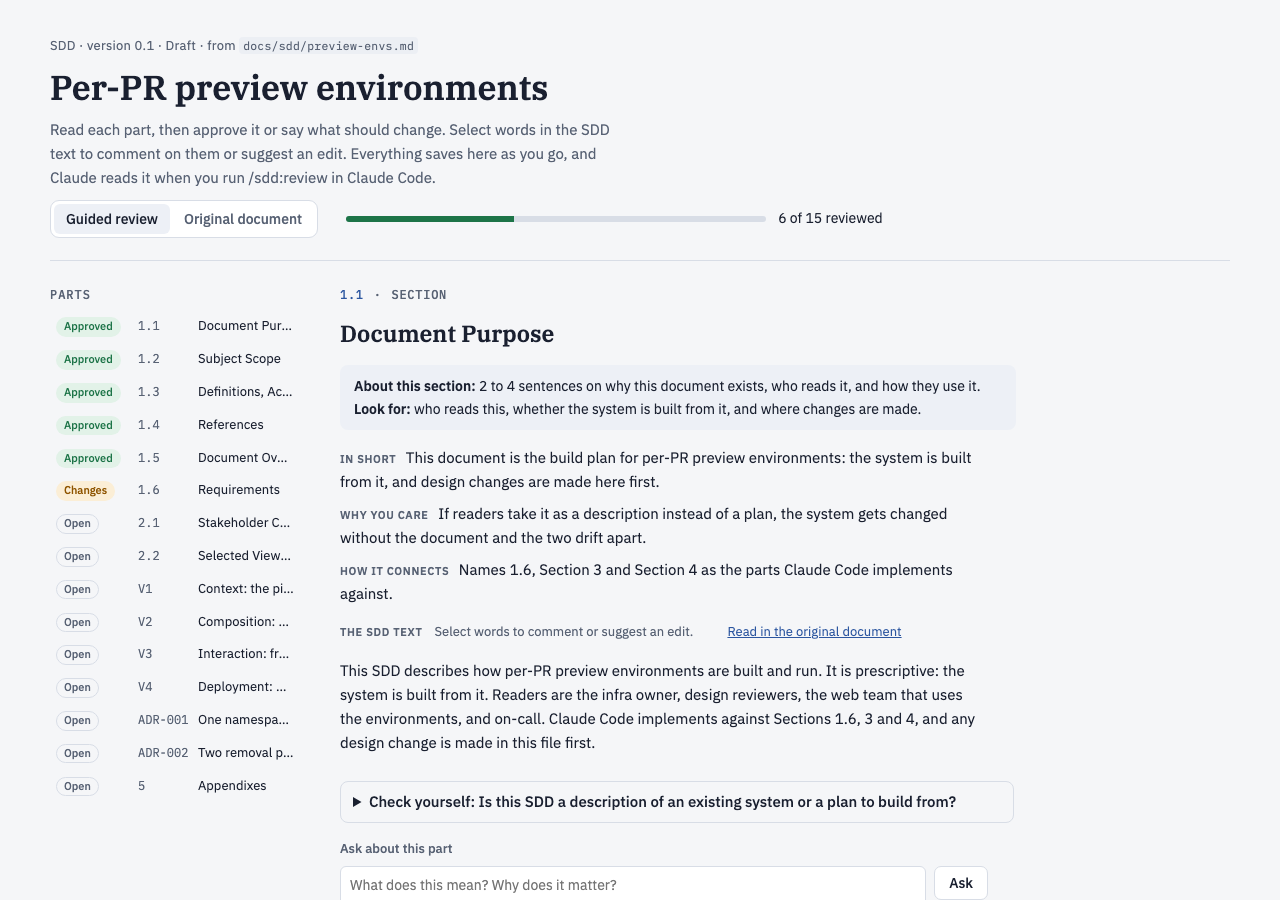
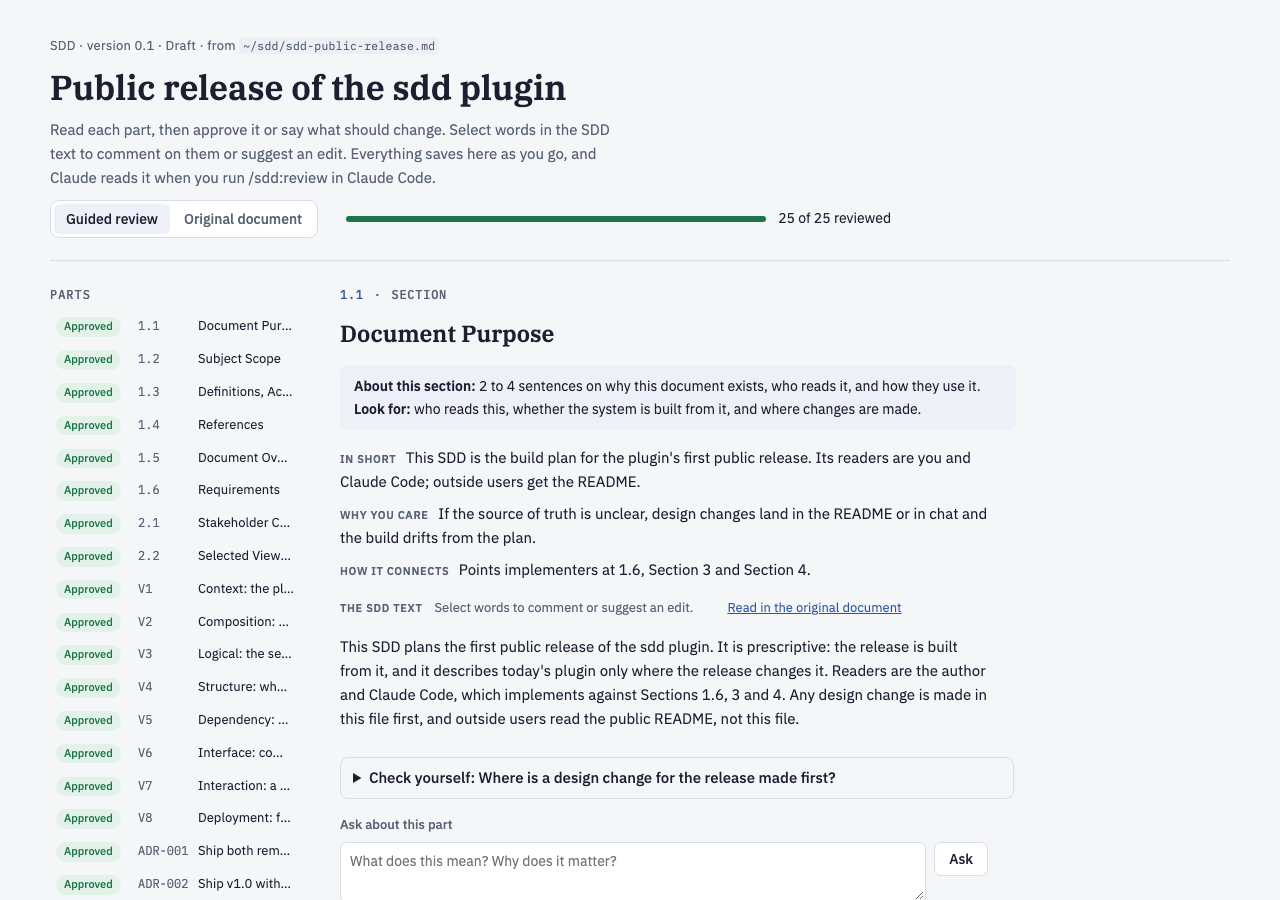
README: dogfood the demo with the review page of this plugin's own release SDD

diff --git a/README.md b/README.md
@@ -6,9 +6,9 @@ The SDD is a plain markdown file in your repo (`docs/sdd/<slug>.md`, or `~/sdd/<
 
 ## Demo
 
-Reviewing the worked example on the review page (`/sdd:review`): each part has plain-language notes, a "Check yourself" question, an Ask box, and Approve or Needs changes. Selecting words in the SDD text lets you comment on them or suggest an edit.
+This plugin was designed with itself. Below is the review page (`/sdd:review`) for the SDD of this public release, written with `/sdd:write`. All 25 parts were approved after one round of fixes: two comments and two Needs changes verdicts became changes to the file, and Claude marked the changed parts for re-check. Each part has plain-language notes, a "Check yourself" question, an Ask box, and Approve or Needs changes. Selecting words in the SDD text lets you comment on them or suggest an edit.
 
-![The review page for the worked example SDD](docs/review-page.png)
+![The review page for this plugin's own release SDD, with all 25 parts approved](docs/review-page.png)
 
 A writing turn (`/sdd:write`) starts with a card like this one, then a question with two or three drafts of the section, each previewed as the exact markdown it will write:
 
